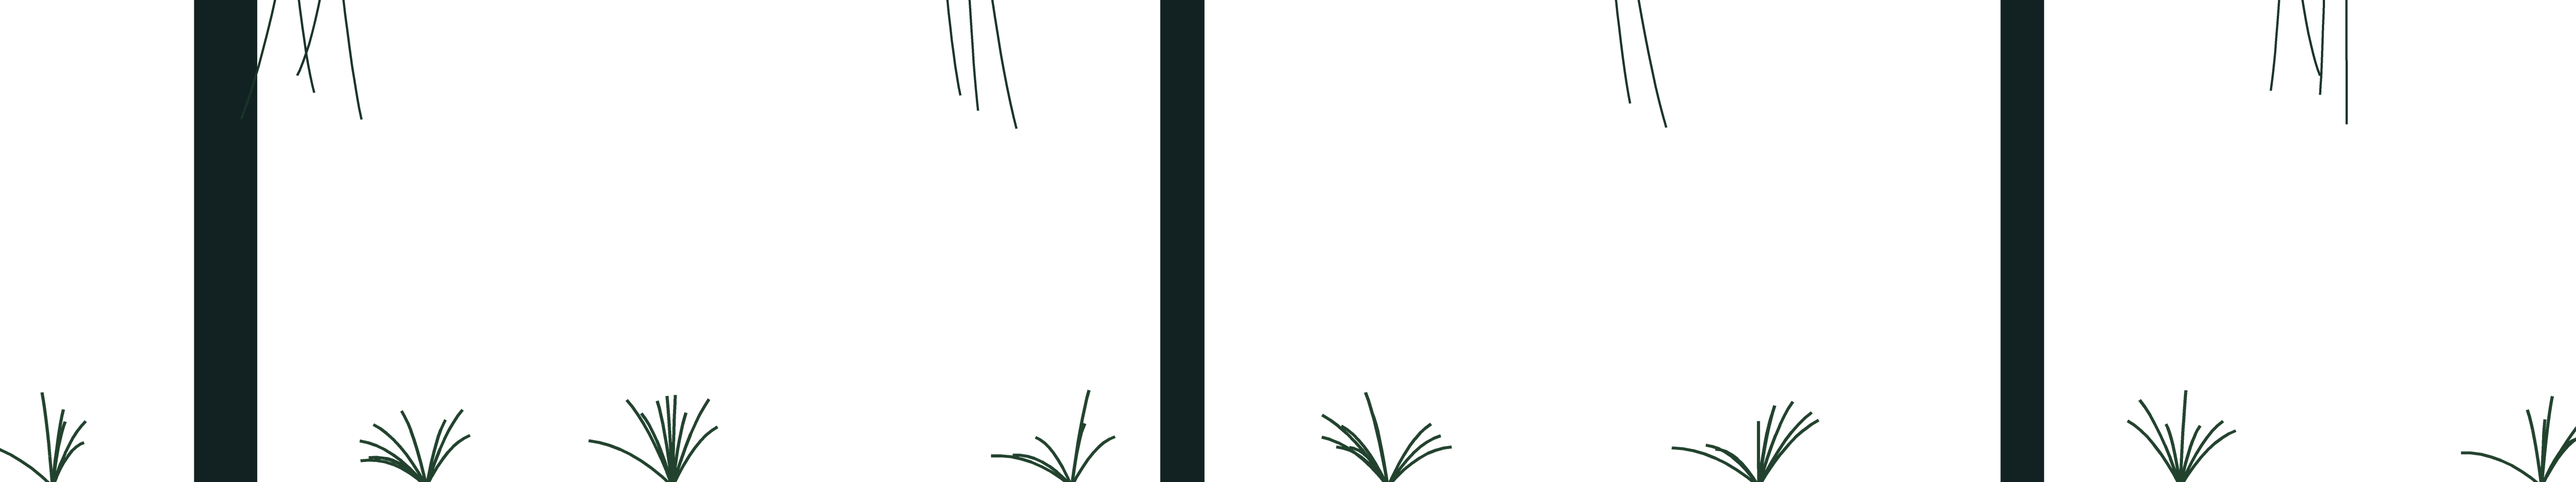
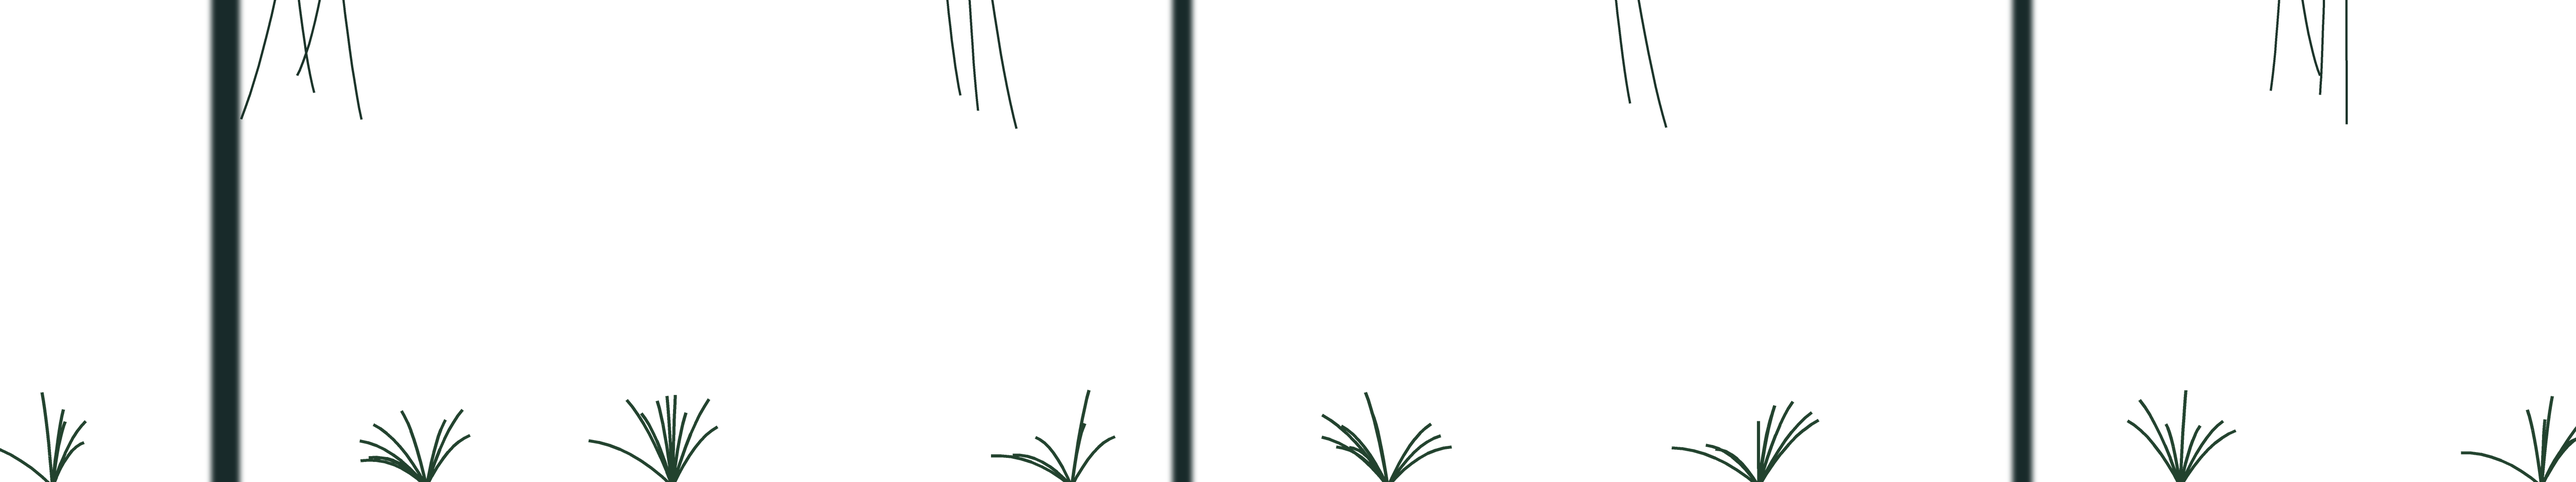
화면 다듬기: 앞 층 기둥 가늘게, 집 안 그림자 짧게, 카메라 앞서 보기·알갱이·비네트 (#90)
Claude-Session: https://claude.ai/code/session_0111uMFuqJYWGQ7WGEgAJwsA

Changed region(s): [[0.749, 0.0, 0.8114, 1.0], [0.0624, 0.0, 0.1248, 1.0], [0.4369, 0.0, 0.4681, 1.0]]

diff --git a/tools/placeholder_art.py b/tools/placeholder_art.py
@@ -386,6 +386,11 @@ def reed_clump(L: Layer, rng: random.Random, x: float, scale: float, base: float
 # ---------------------------------------------------------------- 여러 장소가 같이 쓰는 것
 
 
+def soft_rect(x0, y0, x1, y1, color) -> tuple:
+    """앞 층 기둥처럼 초점이 나간 듯 흐리게 그릴 네모(Layer.haze에 넘긴다, #90)."""
+    return ("poly", [(x0, y0), (x1, y0), (x1, y1), (x0, y1)], color)
+
+
 def layer_x(world_x: float, layer: str) -> float:
     """세계 x에 있는 것이 화면 가운데에 올 때, 그 층 그림에서의 x."""
     return (world_x - SCREEN_W / 2) * SCROLL[layer] + SCREEN_W / 2
@@ -617,9 +622,9 @@ def house(width: float, markers: dict[str, float]) -> dict[str, Layer]:
     # 앞: 문틀, 마루 기둥, 감나무 가지
     w = layer_width(width, "front")
     layers["front"] = L = Layer(w)
-    for wx in (1000, 2700, 3900):
-        fx = layer_x(wx, "front")
-        L.rect(fx - 30, -10, fx + 30, H + 10, rgba(70, 48, 32))
+    # 기둥은 하윤을 가리지 않게 가늘고 초점이 나간 듯 흐리게(#90: 60px 진한 기둥이 화면을 갈랐다)
+    L.haze([soft_rect(layer_x(wx, "front") - 13, -10, layer_x(wx, "front") + 13, H + 10, rgba(84, 60, 42))
+            for wx in (1000, 2700, 3900)], 5)
     fx = layer_x(mk("1-6", 5190) + 200, "front")
     for k in range(4):
         sx, ln = fx + k * 70, rng.uniform(220, 380)
@@ -731,8 +736,8 @@ def station(width: float, markers: dict[str, float]) -> dict[str, Layer]:
     layers["front"] = L = Layer(w)
     for i, wx in enumerate(range(1500, int(mk("3-6", 8555) - 900), 1700)):
         fx = layer_x(wx, "front")
-        L.rect(fx - 24, -10, fx + 24, H + 10, rgba(84, 46, 44))
-        L.rect(fx + 8, -10, fx + 24, H + 10, rgba(150, 84, 64))  # 노을 받는 쪽
+        L.haze([soft_rect(fx - 11, -10, fx + 11, H + 10, rgba(96, 54, 50)),
+                soft_rect(fx + 3, -10, fx + 11, H + 10, rgba(158, 92, 70))], 4)  # 노을 받는 쪽. 가늘게 흐리게(#90)
     fx = layer_x(mk("3-4", 4934) + 700, "front")
     L.rect(fx - 10, 320, fx + 10, H + 10, rgba(110, 54, 42))
     L.rect(fx - 40, 300, fx + 40, 470, rgba(70, 38, 36))
@@ -844,8 +849,8 @@ def forest(width: float, markers: dict[str, float]) -> dict[str, Layer]:
     layers["front"] = L = Layer(w)
     x = rng.uniform(300, 700)
     while x < w:
-        tw = rng.uniform(90, 170)
-        L.rect(x - tw / 2, -10, x + tw / 2, H + 10, rgba(18, 34, 34))
+        tw = rng.uniform(90, 170) * 0.45  # 가늘게 흐리게(#90: 170px 줄기가 화면을 덮었다)
+        L.haze([soft_rect(x - tw / 2, -10, x + tw / 2, H + 10, rgba(24, 42, 42))], 6)
         x += rng.uniform(1300, 2400)
     x = rng.uniform(100, 400)
     while x < w:
@@ -996,8 +1001,8 @@ def bridge(width: float, markers: dict[str, float]) -> dict[str, Layer]:
     fend = layer_x(break_x, "front")
     x = 400.0
     while x < fend - 200:
-        L.rect(x - 22, -10, x + 22, H + 10, rgba(54, 38, 38))
-        L.line([(x, -10), (x + 520, H + 10)], rgba(60, 42, 40), 26)
+        L.haze([soft_rect(x - 10, -10, x + 10, H + 10, rgba(62, 44, 44)),
+                ("line", [(x, -10), (x + 520, H + 10)], rgba(66, 46, 44), 12)], 4)  # 가늘게 흐리게(#90)
         x += 900
     x = layer_x(bank_x, "front") + 300
     while x < w:
